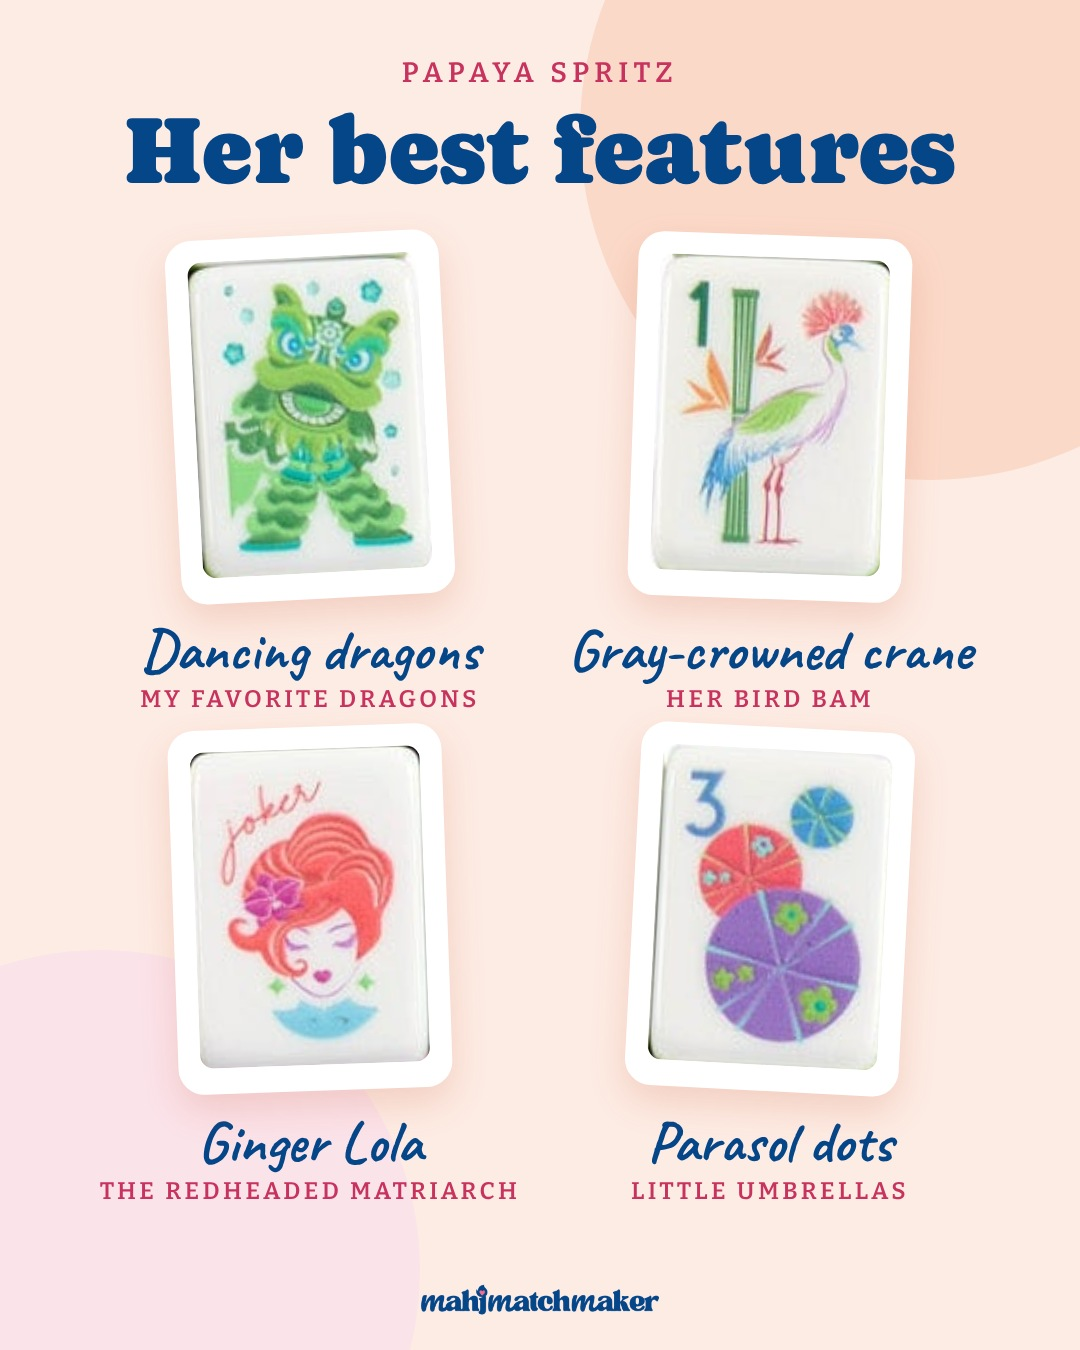
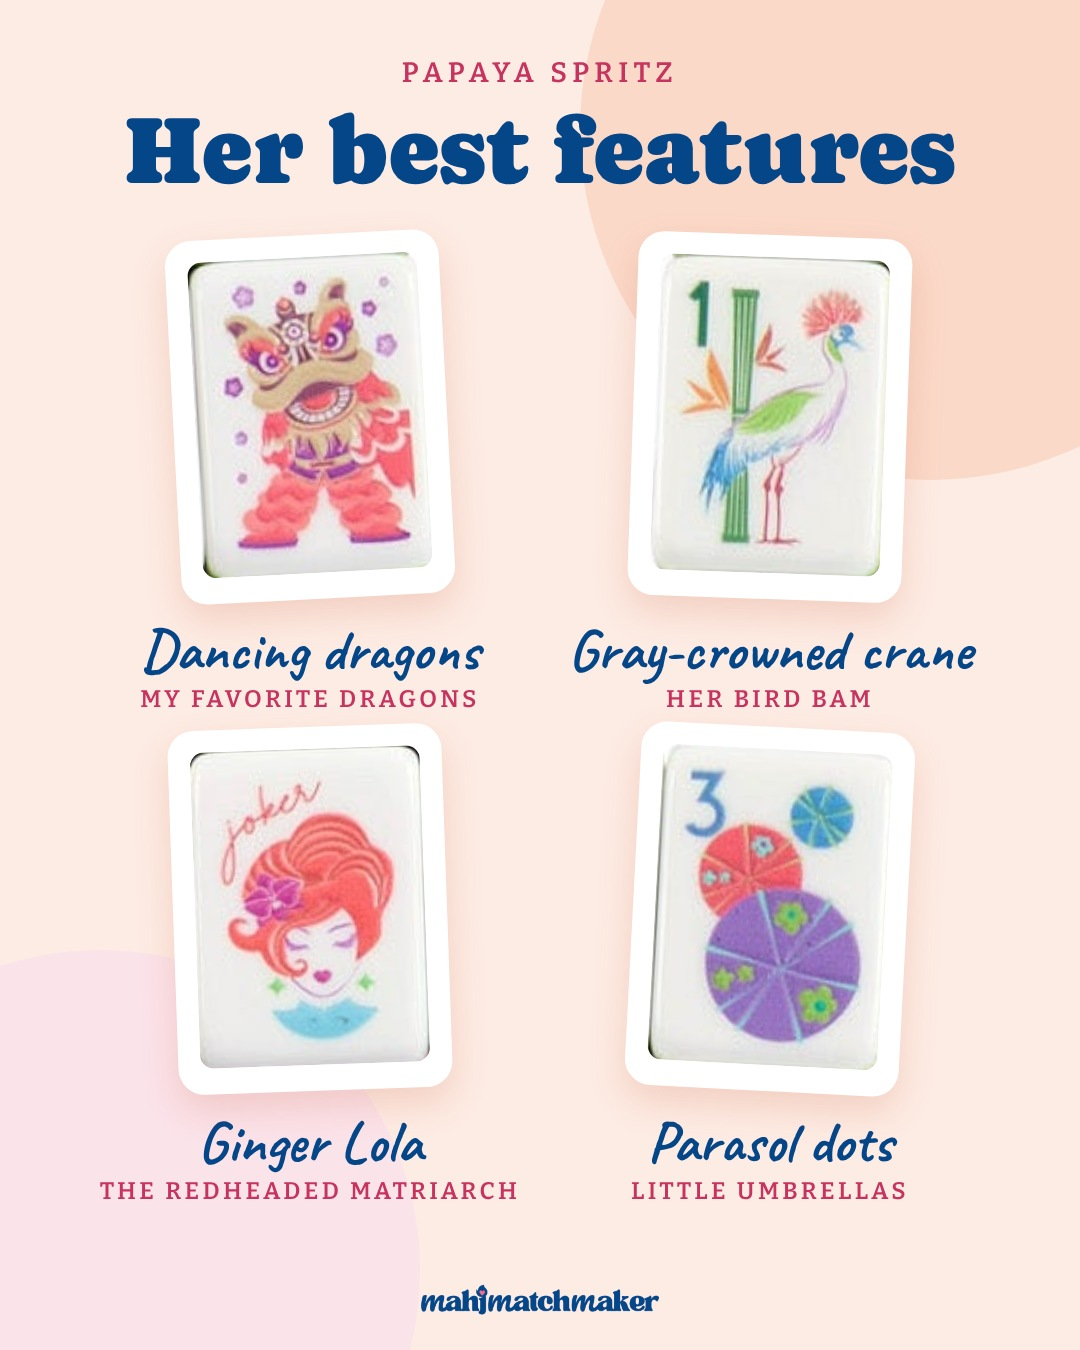
Papaya best features: coral dancing dragon instead of green
Claude-Session: https://claude.ai/code/session_014aKoC1ZMdZPjGkZ9kHhnLk

Changed region(s): [[0.1833, 0.1867, 0.3972, 0.4356]]

diff --git a/scripts/colorwheel/favorites.html b/scripts/colorwheel/favorites.html
@@ -8,7 +8,7 @@
 <div style="position:relative;font:600 28px Bit;letter-spacing:.2em;text-transform:uppercase;color:#c8325f">Papaya Spritz</div>
 <div style="position:relative;font-family:Capra;font-size:96px;color:#054689;margin-top:6px">Her best features</div>
 <div style="position:relative;display:flex;flex-wrap:wrap;justify-content:center;gap:14px 20px;margin-top:30px"><div style="display:flex;flex-direction:column;align-items:center;width:440px">
-<div style="background:#fff;border-radius:26px;padding:22px;box-shadow:0 16px 36px rgba(200,80,40,.18);transform:rotate(-3deg)"><img src="file:///home/claude/mahjmatchmaker-data/assets/tiles/faces/papaya-spritz/dragon-green.png" style="width:230px;height:316px;object-fit:cover;border-radius:14px;image-rendering:auto"></div>
+<div style="background:#fff;border-radius:26px;padding:22px;box-shadow:0 16px 36px rgba(200,80,40,.18);transform:rotate(-3deg)"><img src="file:///home/claude/mahjmatchmaker-data/assets/tiles/faces/papaya-spritz/dragon-red.png" style="width:230px;height:316px;object-fit:cover;border-radius:14px;image-rendering:auto"></div>
 <div style="font-family:Hand;font-size:58px;color:#054689;margin-top:22px;line-height:1">Dancing dragons</div>
 <div style="font:600 24px Bit;letter-spacing:.14em;text-transform:uppercase;color:#c8325f;margin-top:6px">my favorite dragons</div></div><div style="display:flex;flex-direction:column;align-items:center;width:440px">
 <div style="background:#fff;border-radius:26px;padding:22px;box-shadow:0 16px 36px rgba(200,80,40,.18);transform:rotate(2deg)"><img src="file:///home/claude/mahjmatchmaker-data/assets/tiles/faces/papaya-spritz/crane.png" style="width:230px;height:316px;object-fit:cover;border-radius:14px;image-rendering:auto"></div>

diff --git a/scripts/colorwheel/favorites.py b/scripts/colorwheel/favorites.py
@@ -3,7 +3,7 @@ import asyncio
 R='/home/claude/mahjmatchmaker-data'; u=lambda p:f'file://{R}/{p}'
 F=f'file://{R}/scripts/social/tileprofile/fonts'; G='file:///usr/share/fonts/truetype/google-fonts'
 T='assets/tiles/faces/papaya-spritz/'
-favs=[('dragon-green','Dancing dragons','my favorite dragons'),('crane','Gray-crowned crane','her bird bam'),('lola-ginger','Ginger Lola','the redheaded matriarch'),('dot-3','Parasol dots','little umbrellas')]
+favs=[('dragon-red','Dancing dragons','my favorite dragons'),('crane','Gray-crowned crane','her bird bam'),('lola-ginger','Ginger Lola','the redheaded matriarch'),('dot-3','Parasol dots','little umbrellas')]
 cards=''.join(f'''<div style="display:flex;flex-direction:column;align-items:center;width:440px">
 <div style="background:#fff;border-radius:26px;padding:22px;box-shadow:0 16px 36px rgba(200,80,40,.18);transform:rotate({r}deg)"><img src="{u(T+k+'.png')}" style="width:230px;height:316px;object-fit:cover;border-radius:14px;image-rendering:auto"></div>
 <div style="font-family:Hand;font-size:58px;color:#054689;margin-top:22px;line-height:1">{n}</div>
